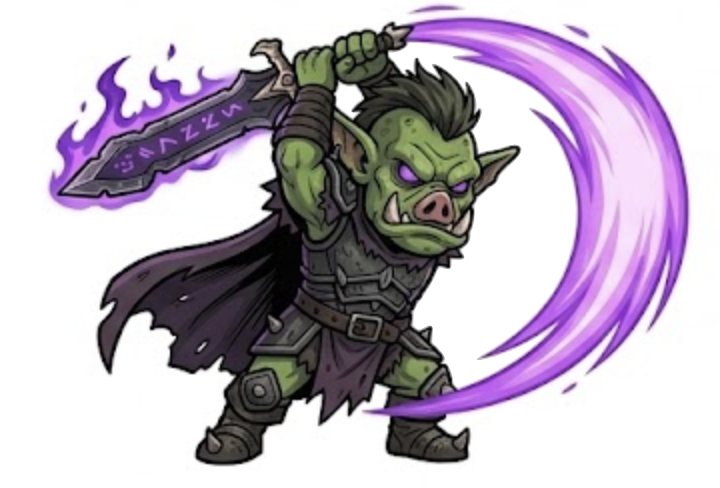
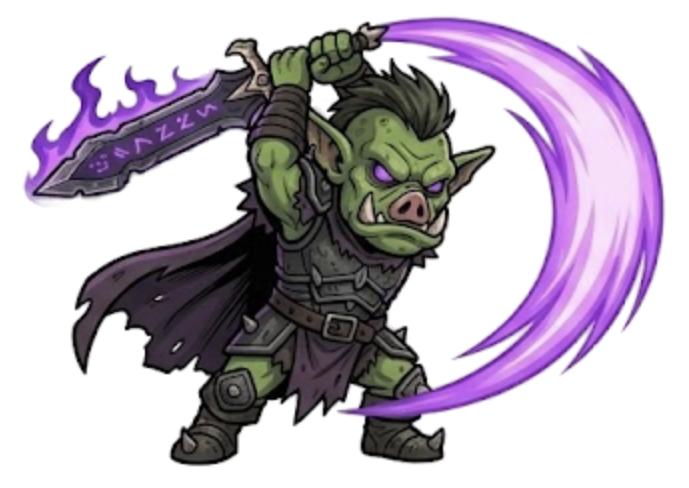
Fix orc slash sprite white background and infinite shield regen
- orc/slash.png had no real transparency (background was opaque
  white), which only became visible once the slash animation started
  being used. Re-cut it with a proper alpha matte.
- Shield was regenerating every 100ms even while actively held,
  passively offsetting the block cost enough that it rarely felt like
  it actually ran out. Regen now only happens once the shield is
  released, so continuous blocking drains it predictably (wood breaks
  after 3 blocks, steel after 5) instead of trending toward zero over
  tens of seconds.

diff --git a/index.html b/index.html
@@ -193,7 +193,7 @@ function reset(){
  staminaTimer=setInterval(()=>{if(!locked){stamina=Math.min(STAMINA_MAX,stamina+STAMINA_REGEN*0.1);updateStamina()}},100);
  updateStamina();
  shield=shieldParams().max;clearInterval(shieldTimer);
- shieldTimer=setInterval(()=>{if(!locked){const sp=shieldParams();shield=Math.min(sp.max,shield+sp.regen*0.1);updateShield()}},100);
+ shieldTimer=setInterval(()=>{if(!locked&&!defending){const sp=shieldParams();shield=Math.min(sp.max,shield+sp.regen*0.1);updateShield()}},100);
  updateShield();
  const tut=document.querySelector('#tutorialCard');
  if(localStorage.getItem('kk_tutorial')){tut.style.display='none'}else{tut.style.display='';localStorage.setItem('kk_tutorial','1')}
